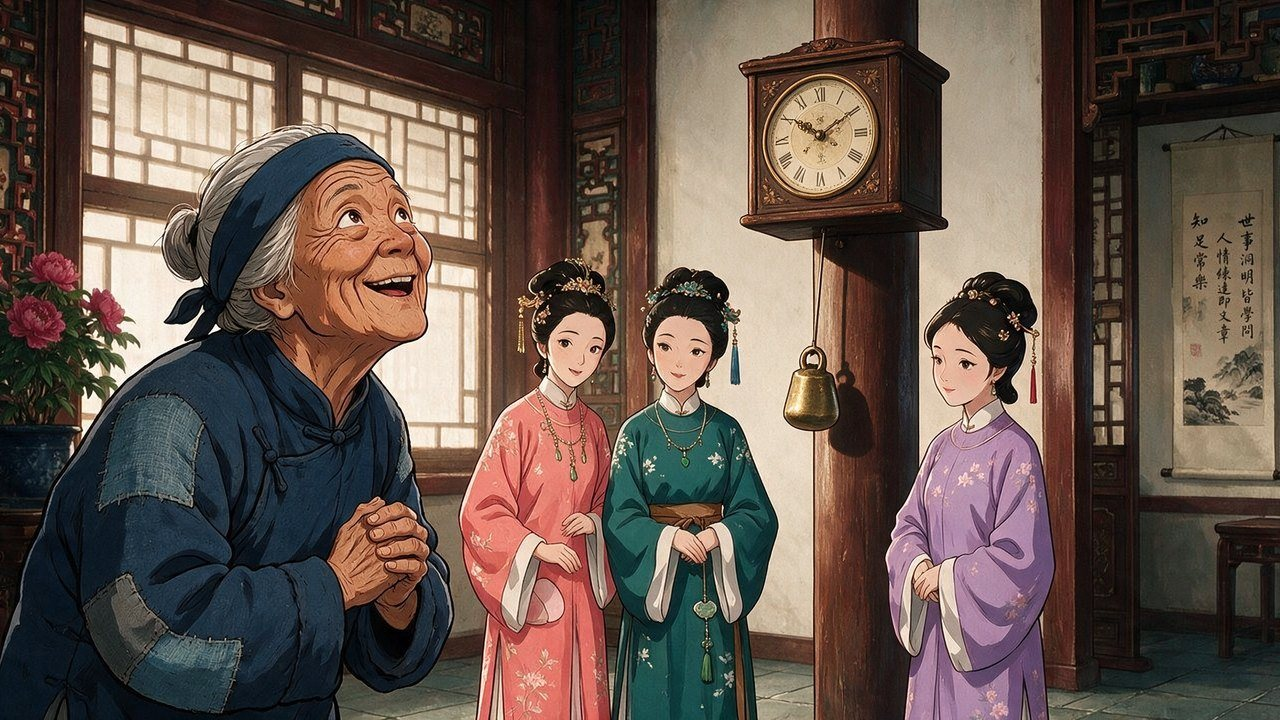
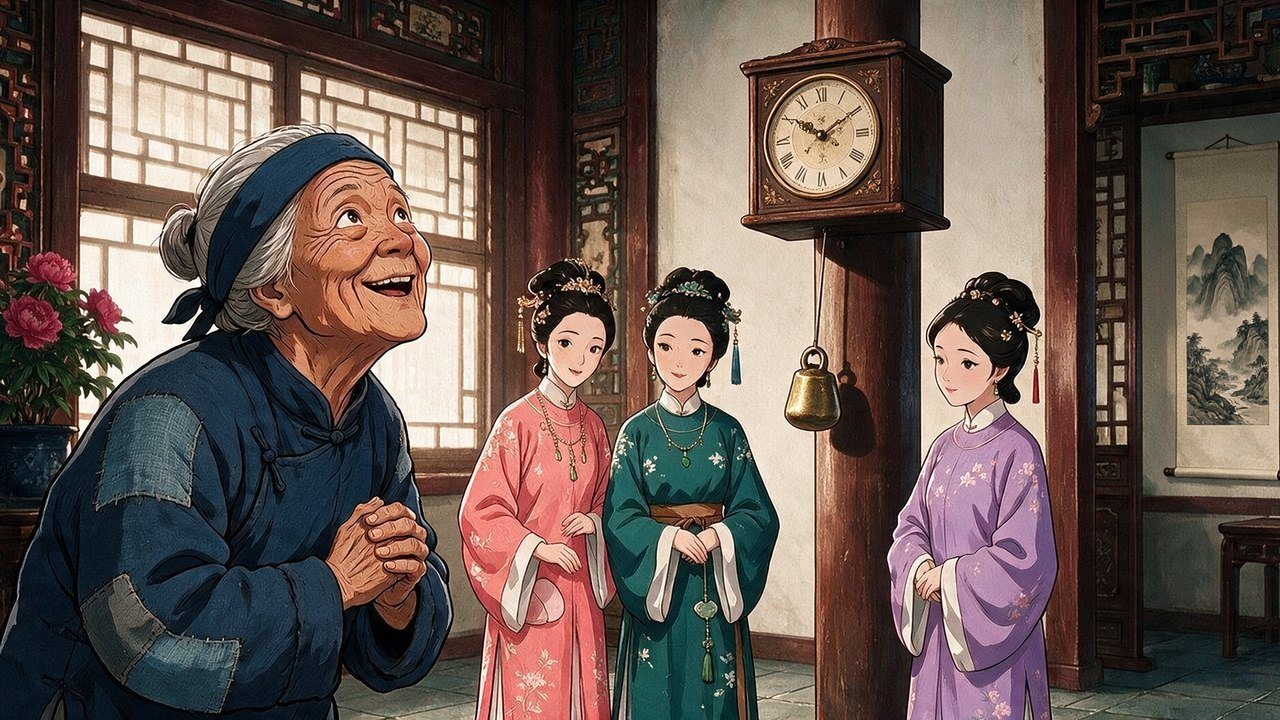
hl_clock: the ch. 5 couplet (世事洞明皆学问) swapped for a landscape painting, by image edit (Plot)
Cost: $0.045.

Claude-Session: https://claude.ai/code/session_018yKP3XDohUzg77y3MHJW73

diff --git a/tk-cutscene.js b/tk-cutscene.js
@@ -724,7 +724,7 @@ const WorldCutscene = {
   // the prop atlas (props, emote bubbles, gift icons), loaded once per game
   // the stills that exist (tools/gen_stills.py writes assets/tk/stills/stills.json), fetched once
   stillIndex() {
-    if (!this._stills) this._stills = fetch("assets/tk/stills/stills.json?v=31").then(r => r.ok ? r.json() : {}).catch(() => ({}));
+    if (!this._stills) this._stills = fetch("assets/tk/stills/stills.json?v=32").then(r => r.ok ? r.json() : {}).catch(() => ({}));
     return this._stills;
   },
   stillSrc(m) { return `assets/tk/stills/${m.file}?v=${m.made || ""}${m.look || ""}`; },   // a redone still is fetched anew

diff --git a/index.html b/index.html
@@ -30,7 +30,7 @@
 <script src="tk-world.js?v=305"></script>
 <script src="tk-items.js?v=10"></script>
 <script src="tk-feats.js?v=6"></script>
-<script src="tk-cutscene.js?v=74"></script>
+<script src="tk-cutscene.js?v=75"></script>
 <script src="tk-music.js?v=6"></script>
 <script src="tk-travel.js?v=16"></script>
 <script src="app.js?v=70"></script>
